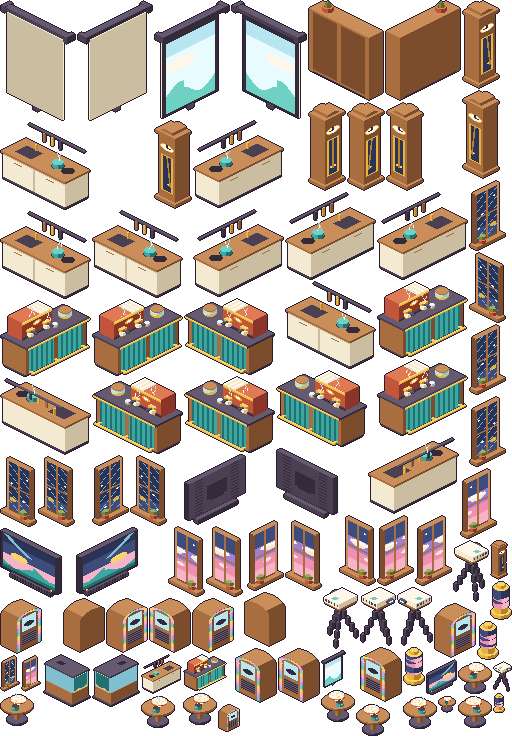
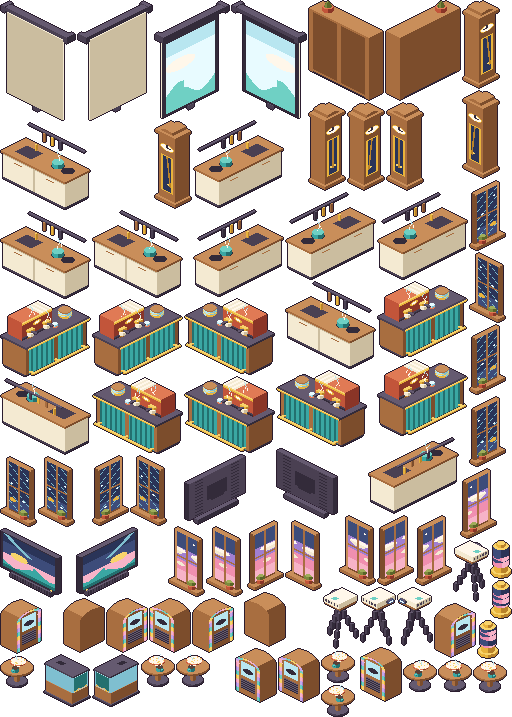
art(assets): drop furniture-v8 tray thumbnails, tray uses the scaled se frame (OME-2096)
Art total 455 234 -> 452 618 B (-2 616, lazy); eager unchanged at 109 617.
No other v8 rect moves, so OME-2095's pinned se rects still match.
New preview/w2-tray@1x/@2x shows every v8 piece at 1/n in the cubby.

diff --git a/assets/src/wave2.ts b/assets/src/wave2.ts
@@ -1,13 +1,13 @@
 // Wave 2 asset set (OME-2066, from the OME-2062 concepts the board passed; ADR 0058): screens without the TV table, ambient loops
 // for the five older presets, and the two partitioned swap rooms (penthouse, studio). Same 67-colour palette, the same Kit / iso
 // ray-caster, plum outline and top-left light as every shipped piece. Ships two lazy sheets:
-//   furniture/furniture-v8.{png,json}       the new pieces, their loops and back views, tray thumbnails
+//   furniture/furniture-v8.{png,json}       the new pieces, their loops and back views (tray: the se frame scaled by the web)
 //   furniture/furniture-v8-shell.{png,json} the swap rooms' shell skin (sky walls, split floors) and the near-wall stubs
 // plus 3 turned shipped pieces in furniture-back (BACK_VIEWS). Previews: preview/w2-*, proposed layouts: preview/w2-layouts/.
 import { mkdirSync, writeFileSync } from "node:fs";
 import { join } from "node:path";
 import type { Furniture, RoomLayout } from "@omega/shared";
-import { Kit, PIECES, TURN, fitThumb, pieceFrames, type Canvas, type FurnDir, type PieceMeta } from "./furniture";
+import { Kit, PIECES, TURN, pieceFrames, type Canvas, type FurnDir, type PieceMeta } from "./furniture";
 import { addOutline, box, renderSolids } from "./iso";
 import { PALETTE, colorIndex, type RampName, type Tone } from "./palette";
 import { encodeIndexedApng, encodeIndexedPng } from "./png";
@@ -35,7 +35,6 @@ const hash = (a: number, b: number): number => {
 };
 const ALL: readonly FurnDir[] = ["ne", "nw", "se", "sw"];
 const CV: Canvas = { w: 480, h: 400, ax: 220, ay: 300 };
-const THUMB_CV: Canvas = { w: 240, h: 200, ax: 110, ay: 150 };
 /** se/nw hang on (or back onto) the left wall, whose segments run along +row (v); sw/ne on the right wall, along +col (u). */
 const swaps = (d: FurnDir): boolean => d === "nw" || d === "se";
 
@@ -362,11 +361,6 @@ function metas(): PieceMeta[] {
   return out;
 }
 
-/** Tray thumbnails, `thumb/<id>/<colour>`, in v8 itself (lazy) so the eager edit CSS doesn't grow. */
-function thumbs(): RoomFrame[] {
-  return WAVE2.map((def) => fitThumb(`thumb/${def.id}/${def.colour}`, THUMB_CV, (s) => render(def, def.dirs.includes("se") ? "se" : "ne", 0, false, s, THUMB_CV)));
-}
-
 const TURNED_SHIPPED: readonly string[] = ["aquarium/teal", "bookshelf/wood"];
 
 export function buildWave2Pieces(): { frames: RoomFrame[]; pieces: PieceMeta[] } {
@@ -382,7 +376,7 @@ export function buildWave2Pieces(): { frames: RoomFrame[]; pieces: PieceMeta[] }
     if (!def) throw new Error(`no piece ${id}`);
     for (const dir of SE_SW) out.push(...pieceFrames(def, colour, dir, true));
   }
-  return { frames: [...out, ...thumbs()], pieces: metas() };
+  return { frames: out, pieces: metas() };
 }
 
 // ------------------------------------------------------------------ shell skin (sky terrace, split floors, near-wall stubs)
@@ -695,4 +689,24 @@ export function buildWave2Previews(d: Wave2Deps): void {
     }
   });
   writeFileSync(join(ROOT, "preview", "w2-ambient-strip@4x.png"), encodeIndexedPng(SW * 4, SH * 4, upscale(strip, SW, SH, 4), PALETTE));
+
+  // Tray (OME-2096): no thumbs in v8; the web draws each piece's se frame at 1/n (n = trayScale, apps/web/src/editor/v8-thumbs.ts),
+  // nearest-sampled, centred in the 44×40 cubby. @1x = --ui-px 1, @2x = --ui-px 2 (the browser's sampling, not an upscale of @1x).
+  const tray = WAVE2.map((x) => all.get(`furniture/${x.id}/${x.colour}/${x.dirs.includes("se") ? "se" : (x.dirs[0] ?? "se")}/back`));
+  for (const k of [1, 2]) {
+    const CW = 44 * k, CH = 40 * k, G = 4 * k, TW = G + tray.length * (CW + G), TH = CH + 2 * G;
+    const img = new Uint8Array(TW * TH).fill(c("night", 1));
+    tray.forEach((f, i) => {
+      const cx = G + i * (CW + G);
+      for (let y = 0; y < CH; y++) for (let x = 0; x < CW; x++) img[(G + y) * TW + cx + x] = y === CH - 1 || x === CW - 1 ? c("night", 0) : c("night", 2); // sunken well, lit lower edge
+      if (!f) return;
+      const n = Math.max(2, Math.ceil(f.w / 44), Math.ceil(f.h / 40));
+      const w = Math.floor((f.w * k) / n), h = Math.floor((f.h * k) / n), ox = cx + Math.floor((CW - w) / 2), oy = G + Math.floor((CH - h) / 2);
+      for (let y = 0; y < h; y++) for (let x = 0; x < w; x++) {
+        const v = f.img[Math.floor(((y + 0.5) * n) / k) * f.w + Math.floor(((x + 0.5) * n) / k)] ?? 0;
+        if (v) img[(oy + y) * TW + ox + x] = v;
+      }
+    });
+    writeFileSync(join(ROOT, "preview", `w2-tray@${String(k)}x.png`), encodeIndexedPng(TW, TH, img, PALETTE));
+  }
 }

diff --git a/assets/README.md b/assets/README.md
@@ -1705,11 +1705,11 @@ v8 atlases in the v4 schema (`meta.omega.pieces`, `animations`). Everything else
 
 | file | what | bytes |
 |---|---|---|
-| `furniture/furniture-v8.png` + `.json` | the new pieces, their loops, their back views, 2 turned shipped pieces, tray thumbnails | 29 303 + 3 215 gz |
+| `furniture/furniture-v8.png` + `.json` | the new pieces, their loops, their back views, 2 turned shipped pieces (no tray thumbnails since OME-2096) | 27 017 + 2 885 gz |
 | `furniture/furniture-v8-shell.png` + `.json` | penthouse and studio shell skin, split floors, the near-wall stubs | 6 623 + 695 gz |
-| **total** | `main` 415 398 → **455 234 B of 460 800** (+39 836, all lazy; eager unchanged at 109 617) | |
+| **total** | `main` 415 398 → **452 618 B of 460 800** (+37 220, all lazy; eager unchanged at 109 617) | |
 
-**Both v8 sheets are packed tight (OME-2078):** their height is the packed height, not the next power of two (512×736 and 512×233;
+**Both v8 sheets are packed tight (OME-2078):** their height is the packed height, not the next power of two (512×717 and 512×233;
 Pixi v8 takes non-power-of-two textures, and nothing mipmaps them), and their PNG rows use filter Up, which suits stacked loop frames.
 That freed 4 258 B (v8 −1 264, v8-shell −2 994 with the x-ray patches gone). Other sheets keep their power-of-two size and filter None.
 
@@ -1747,8 +1747,9 @@ That freed 4 258 B (v8 −1 264, v8-shell −2 994 with the x-ray patches gone).
   tripod's lens to the cloth's four corners, outside the cloth. Draw it once as a cached `Graphics` between the floor/wall layers and
   the object layer, so seats, the tripod and avatars cover it and it starts at the lens. The reference is `beam()` in
   `src/wave2.ts`.
-- **Tray thumbnails** `thumb/<id>/<colour>` are in v8 itself, not in `ui/edit.png`, so the eager `reference.css` doesn't grow.
-  Same fit rules as set (h): ≤ 44×40, anchored on the visual centre.
+- **Tray art:** v8 has no `thumb/<id>/<colour>` frames (dropped in OME-2096, −2 616 B; no other rect moved). The editor draws the
+  piece's `se` frame at 1/n, n = max(2, ⌈w/44⌉, ⌈h/40⌉), centred in the 44×40 cubby (OME-2095, `apps/web/src/editor/v8-thumbs.ts`).
+  Preview: `preview/w2-tray@1x.png` / `@2x.png` (every v8 piece at `--ui-px` 1 and 2, nearest-sampled like the browser).
 
 ### Back views (swapped view)
 
@@ -1794,7 +1795,7 @@ Previews: `w2-<preset>@1x/@2x.png` + `@1x.apng` (every loop on its own clock), `
 `w2-studio-{south,north}`, `w2-screen-{wallscreen,projector}-{south,north}`, `w2-ambient-strip@4x.png`, and
 `furniture-v8-atlas@2x.png` / `furniture-v8-shell-atlas@2x.png`.
 
-**Budget levers, if the next set needs room:** move the tray thumbnails to a runtime-scaled `se` frame (−2.3 KB); make the espresso
+**Budget levers, if the next set needs room** (the tray-thumbnail lever is spent, OME-2096): make the espresso
 and jukebox one facing (about −2.8 KB, but needs per-variant facings); a single skyline (−0.6 KB); or loops as small overlay sprites
 in place of whole-piece frames (an engineering change: the espresso, kitchenette and jukebox loops repeat the whole piece for a few
 moving pixels).
@@ -1840,7 +1841,7 @@ are the lazy/eager split and the total). Previews and `src/` don't ship and aren
 | `accessories/bare.png` + `.json` (OME-1409, lazy) | 15 445 + 1 488 gz |
 | **total shipped art** | **131 058 B (≈ 128.0 KB) of 300 KB** (1 KB = 1 024 B, as in the budget: 307 200 B). Eager 69 528 B; lazy (sets d + l's walk, g, h's edit kit, i's, j's and k's scenes, not-found) 61 530 B |
 
-**Cap: 460 800 B (450 KB) since the ADR 0056 amendment of 2026-10-29** (OME-2001: 415 711 B with the queen bed; 409 600 B / 400 KB from ADR 0056 until then; 300 KB / 307 200 B before; older rows below say "of 307 200"). **Measured total now: 455 234 B** after OME-2078 (wave 2 polish, −4 258); 459 492 B after OME-2066 (wave 2, +44 094 lazy on 415 398); 376 550 B after OME-1959 (partition, +2 722 lazy; main was 373 828, the rows since OME-1688 not all logged here); 352 244 B after OME-1688 (lamp, plant and shelf colourways, +223 lazy); 352 021 B after OME-1685's Dank Dungeon polish (+2 926) merged with main's later art; 337 639 B after OME-1670 (Dank Dungeon, +17 010); 320 629 B after OME-1639's theatre set (+11 841 on top of 308 788 after OME-1641 and its OME-1657 polish); was 304 093 B (≈ 297.0 KB) of 300 KB, eager 104 314, lazy 199 779 (OME-1530: +9 286 lazy; 3 107 B left) (`bun assets/src/build.ts`). Rows not named below are
+**Cap: 460 800 B (450 KB) since the ADR 0056 amendment of 2026-10-29** (OME-2001: 415 711 B with the queen bed; 409 600 B / 400 KB from ADR 0056 until then; 300 KB / 307 200 B before; older rows below say "of 307 200"). **Measured total now: 452 618 B** after OME-2096 (v8 tray thumbnails dropped, −2 616 lazy); 455 234 B after OME-2078 (wave 2 polish, −4 258); 459 492 B after OME-2066 (wave 2, +44 094 lazy on 415 398); 376 550 B after OME-1959 (partition, +2 722 lazy; main was 373 828, the rows since OME-1688 not all logged here); 352 244 B after OME-1688 (lamp, plant and shelf colourways, +223 lazy); 352 021 B after OME-1685's Dank Dungeon polish (+2 926) merged with main's later art; 337 639 B after OME-1670 (Dank Dungeon, +17 010); 320 629 B after OME-1639's theatre set (+11 841 on top of 308 788 after OME-1641 and its OME-1657 polish); was 304 093 B (≈ 297.0 KB) of 300 KB, eager 104 314, lazy 199 779 (OME-1530: +9 286 lazy; 3 107 B left) (`bun assets/src/build.ts`). Rows not named below are
 older hand-copied figures; the build's printout is the source of truth.
 
 The Halloween theme (OME-1185) adds **7 231 B (≈ 7.1 KB)**, all lazy and fetched only during the theme (cap: 40 KB per theme): `halloween.png` 3 513 +
